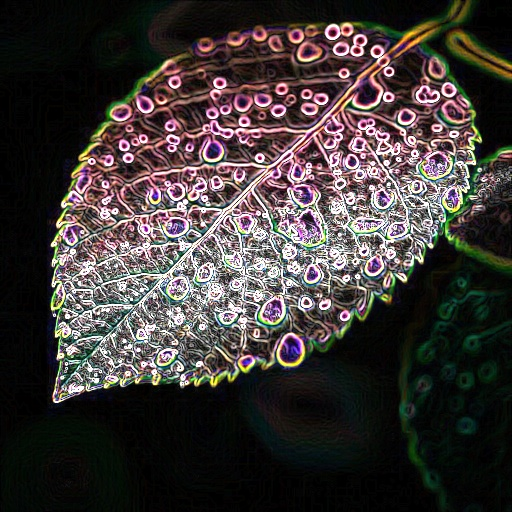
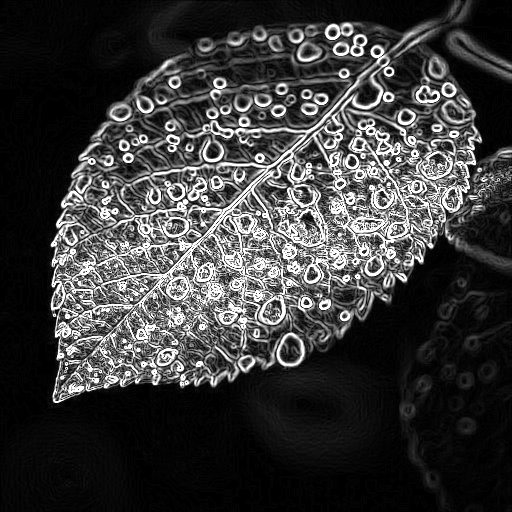
Optimization

diff --git a/algorithms/spatial.py b/algorithms/spatial.py
@@ -53,25 +53,15 @@ def gaussian_blur_filter(img, kernel_size, sigma=1):
 
 def laplacian_filter(img):
     pad_size = 1
-    pd_img = np.pad(img , pad_size , "reflect")
-    output = np.zeros(img.shape)
-    kernel = np.array([[0 , -1 , 0] , [-1 , 4 , -1] , [0 , -1, 0]])
-    H , W = img.shape
+    pd_img = np.pad(img, pad_size, "reflect")
+    kernel = np.array([[0, -1, 0], [-1, 4, -1], [0, -1, 0]])
 
-    for i in range(H) : 
-        for j in range(W) :
-            I = i + pad_size
-            J = j + pad_size
-            laplacian_value = 0
-            for k in range(-pad_size, pad_size + 1):
-                for l in range(-pad_size, pad_size + 1):
-                    pixel_value = int(pd_img[I + k][J + l])
-                    weight = kernel[k + pad_size][l + pad_size]
-                    laplacian_value = laplacian_value + pixel_value * weight
-            
-            original_pixel = int(pd_img[I][J])
-            sharpened_value = original_pixel + laplacian_value
-            output[i][j] = np.clip(sharpened_value, 0, 255)
+    windows = np.lib.stride_tricks.sliding_window_view(pd_img, (3, 3))
+
+    laplacian_values = np.sum(windows * kernel, axis=(-2, -1))
+
+    sharpened = img.astype(np.int64) + laplacian_values
+    output = np.clip(sharpened, 0, 255)
 
     return output.astype(np.uint8)
     

diff --git a/test1.py b/test1.py
@@ -7,6 +7,7 @@ from algorithms.color_utils import apply_to_color
 
 #img  = load_image("examples/test.jpg" )
 color_img = load_image("examples/test.jpg" , False)
+img = load_image("examples/test.jpg")
 
 img_mean = apply_to_color(mean_blur_filter, color_img, 5)
 img_median = apply_to_color(median_filter, color_img, 5)